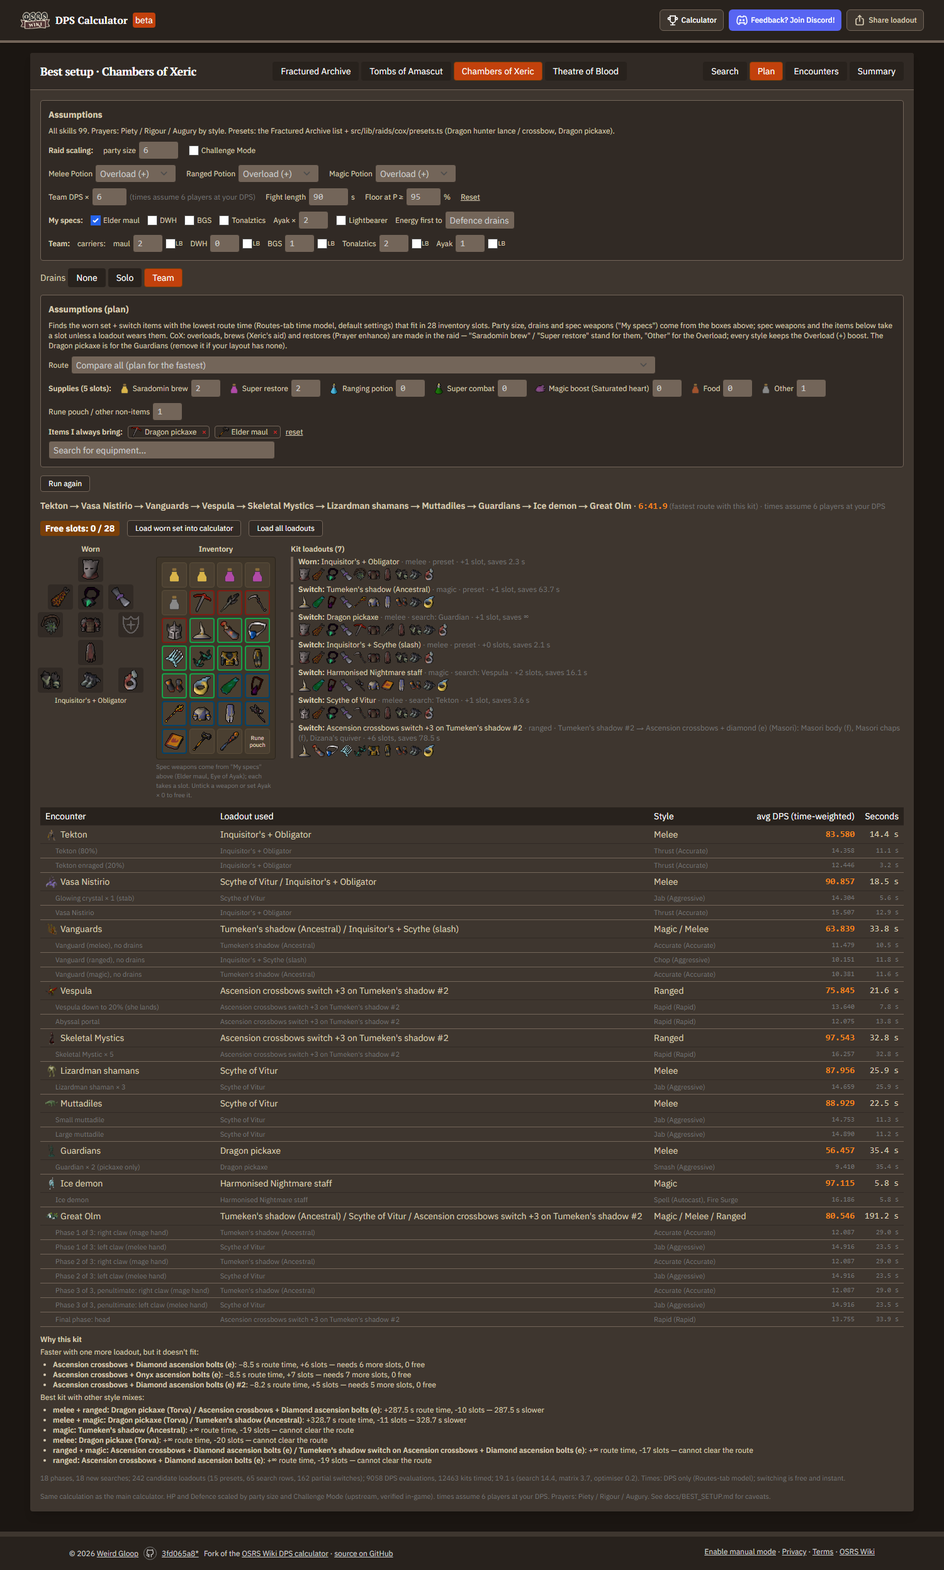
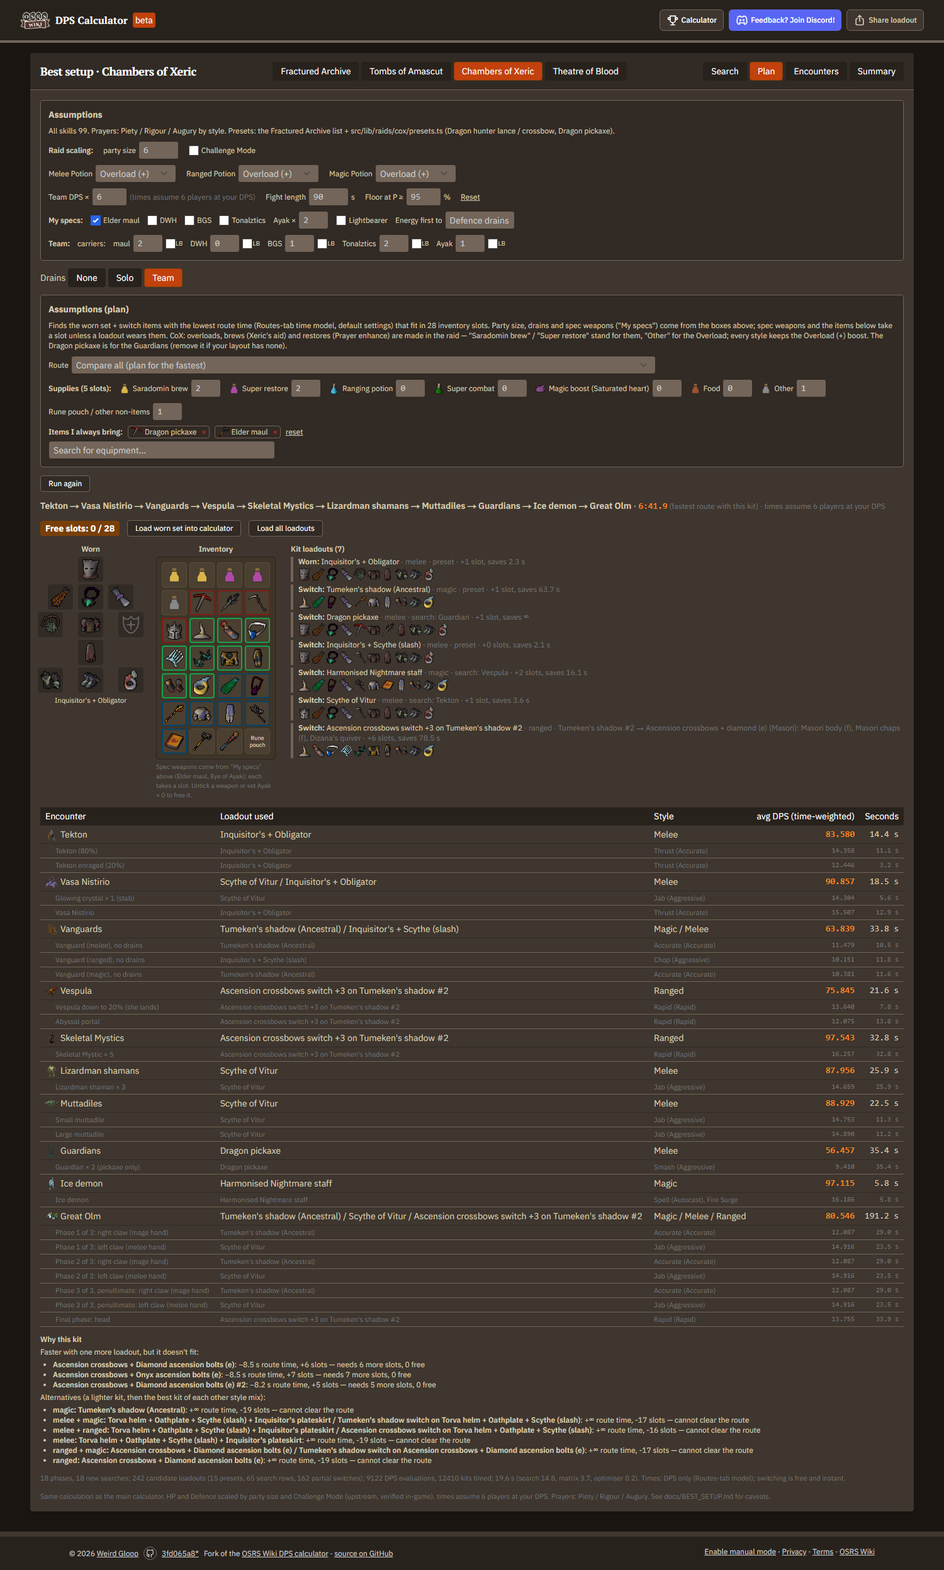
phase 21 fixes: review follow-ups
- plan prune only drops (min time within 28 slots); the same-style cheaper swaps become a "Lighter kit" alternative (-N slots for +X.X s)
- prune skipped for an infinite-time kit; raid-weapon switch label mentions ammo / shield
- verifyPhase20: 17 ToB targets in Normal mode; verifyPhase21: ToB 7:32.2 at 28/28 + lighter kit
- docs: BEST_SETUP effect table, UNVERIFIED D13 / G12

Changed region(s): [[0.0613, 0.8957, 0.7973, 0.9266]]

diff --git a/src/lib/fracturedArchive/planner.ts b/src/lib/fracturedArchive/planner.ts
@@ -410,9 +410,11 @@ export interface KitProblem {
   raidSupplied?: number[];
   /** Phase 21: skip the dedupe rule (the optimiser's prune step); default false. */
   noPrune?: boolean;
+  /** Phase 21 (`lightenKit`): prune this kit with drops and same-group swaps instead of optimising. */
+  lighten?: number[];
   /**
-   * Phase 21: style group (any label) per candidate; the dedupe rule may swap a kit loadout for a cheaper candidate of
-   * the same group. Undefined = drops only.
+   * Phase 21: style group (any label) per candidate, for the "lighter kit" swaps (`lightenKit`): a kit loadout may be
+   * swapped for a cheaper candidate of the same group. Not used by `optimiseKit` (its prune step only drops).
    */
   groups?: string[];
   shouldCancel?: () => boolean;
@@ -487,12 +489,13 @@ export const optimiseKit = (p: KitProblem): KitOptimum => {
     members, time: timeOf(members), used: usedOf(members), seed,
   });
 
-  // the dedupe rule (SWITCH_MIN_*): repeatedly apply the move that breaks it the most, until none does —
-  // drop a loadout that saves less than switchSavingRequired(its slots), or swap one for a cheaper candidate of the same
-  // style (`groups`) when the slots it frees bought less than SWITCH_MIN_SECONDS_PER_SLOT each
+  // the dedupe rule (SWITCH_MIN_*): repeatedly apply the move that breaks it the most, until none does — drop a loadout
+  // that saves less than switchSavingRequired(its slots); with `swaps` (lightenKit only) also swap one for a cheaper
+  // candidate of the same style (`groups`) when the slots it frees bought less than SWITCH_MIN_SECONDS_PER_SLOT each.
+  // A kit that can't clear the route (∞) is left alone.
   const loss = (from: KitSolution, to: KitSolution) => (to.time === from.time ? 0 : to.time - from.time);
-  const prune = (start: KitSolution): KitSolution => {
-    if (p.noPrune) return start;
+  const prune = (start: KitSolution, swaps = false): KitSolution => {
+    if (p.noPrune || !Number.isFinite(start.time)) return start;
     let cur = start;
     for (let iter = 0; iter < 50 && cur.members.length > 0; iter++) {
       let move: { s: KitSolution, margin: number } | null = null;
@@ -502,7 +505,7 @@ export const optimiseKit = (p: KitProblem): KitOptimum => {
           const margin = loss(cur, s) - switchSavingRequired(cur.used - s.used);
           if (margin < -EPS && (!move || margin < move.margin)) move = { s, margin };
         }
-        if (p.groups) {
+        if (swaps && p.groups) {
           for (let c = 0; c < n; c++) {
             if (p.groups[c] !== p.groups[cur.members[i]] || cur.members.includes(c) || (p.allowed && !p.allowed[c])) continue;
             const m = cur.members.map((x, j) => (j === i ? c : x));
@@ -574,6 +577,12 @@ export const optimiseKit = (p: KitProblem): KitOptimum => {
     return cur;
   };
 
+  if (p.lighten) {
+    const start = solution(p.lighten, p.lighten[0] ?? 0);
+    const light = prune(start, true);
+    return { best: light, finals: [light], kitsEvaluated };
+  }
+
   const finals: KitSolution[] = [];
   let best: KitSolution | null = null;
   p.seeds.forEach((seed, i) => {
@@ -589,6 +598,13 @@ export const optimiseKit = (p: KitProblem): KitOptimum => {
   if (!best) throw new Error('Planner: no seeds');
   return { best, finals, kitsEvaluated };
 };
+
+/**
+ * Phase 21: the "lighter kit" of a kit: the dedupe rule plus swaps of a loadout for a cheaper same-group candidate
+ * whenever the slots it frees bought < SWITCH_MIN_SECONDS_PER_SLOT each. Slower (or equal) and lighter; the planner
+ * offers it as an alternative, not as the plan (the plan minimises time within the slots).
+ */
+export const lightenKit = (p: KitProblem, members: number[]): KitSolution => optimiseKit({ ...p, lighten: members, seeds: members }).best;
 
 // --- the real planner ----------------------------------------------------------------------------------------------
 
@@ -1095,13 +1111,16 @@ export const plan = (inputs: PlanInputs, tuning: PlanTuning = {}, hooks: PlanHoo
         const A = candidates[a];
         if (A.group === B.group || bases.includes(a) || !dps[a].some((d) => d > 0)) continue;
         const v0 = partialSwitchVariants(A.equipment, B.equipment, () => 0)[0];
+        // the variant also takes the partner's ammo / shield (or drops the shield for a two-hander): say so
+        let extras = B.equipment.ammo ? ' + ammo' : '';
+        if ((v0.equipment.shield?.id ?? -1) !== (A.equipment.shield?.id ?? -1)) extras += v0.equipment.shield ? ' + shield' : ', shield removed';
         pending.push({
           label: `${B.equipment.weapon?.name ?? B.label} switch on ${A.label}`,
           kind: 'partial',
           group: B.group,
           equipment: v0.equipment,
           options: B.options,
-          source: `${A.label} → ${B.label}, weapon only (raid item: 0 slots)`,
+          source: `${A.label} → ${B.label}, weapon${extras} (the raid item: 0 slots)`,
           base: A.label,
           partner: B.label,
           pieces: [],
@@ -1188,7 +1207,6 @@ export const plan = (inputs: PlanInputs, tuning: PlanTuning = {}, hooks: PlanHoo
       seeds: seeds.length ? seeds : [0],
       raidSupplied,
       noPrune: tuning.noPrune,
-      groups: candidates.map((c) => c.group),
       shouldCancel: hooks.shouldCancel,
       onProgress: (done, n) => progress({
         stage: 'optimise', done, total: n, label: 'kits',
@@ -1311,7 +1329,7 @@ export const plan = (inputs: PlanInputs, tuning: PlanTuning = {}, hooks: PlanHoo
       const mixSeeds = seeds.filter((i) => allowed[i]).slice(0, 5);
       if (!mixSeeds.length) continue;
       let s = optimiseKit({
-        items, carried, fixedSlots, totalSlots: total, time: routeTime, seeds: mixSeeds, allowed, raidSupplied, noPrune: tuning.noPrune, groups: candidates.map((c) => c.group), shouldCancel: hooks.shouldCancel,
+        items, carried, fixedSlots, totalSlots: total, time: routeTime, seeds: mixSeeds, allowed, raidSupplied, noPrune: tuning.noPrune, shouldCancel: hooks.shouldCancel,
       }).best;
       for (const g of mix) {
         if (s.members.some((i) => candidates[i].group === g)) continue;
@@ -1352,6 +1370,26 @@ export const plan = (inputs: PlanInputs, tuning: PlanTuning = {}, hooks: PlanHoo
     throw e;
   }
   alternatives.sort((a, b) => (b.deltaSeconds - a.deltaSeconds) || a.label.localeCompare(b.label));
+  // phase 21: the lighter kit (same-style cheaper swaps where the slots bought < 1 s each), listed first when it frees slots
+  try {
+    const light = lightenKit({
+      items, carried, fixedSlots, totalSlots: total, time: routeTime, seeds: members, raidSupplied, groups: candidates.map((c) => c.group), shouldCancel: hooks.shouldCancel,
+    }, members);
+    const freed = chosen.used - light.used;
+    if (freed >= 1 && Number.isFinite(light.time)) {
+      const slower = light.time === T ? 0 : light.time - T;
+      alternatives.unshift({
+        label: `Lighter kit: ${light.members.map((i) => candidates[i].label).join(' / ')}`,
+        kind: 'alternative',
+        deltaSeconds: T - light.time,
+        deltaSlots: -freed,
+        reason: `−${freed} slot${freed === 1 ? '' : 's'} for +${slower.toFixed(1)} s (each freed slot cost < ${SWITCH_MIN_SECONDS_PER_SLOT} s)`,
+      });
+    }
+  } catch (e) {
+    if (e instanceof PlanCancelled) return emptyResult(searchRows);
+    throw e;
+  }
 
   const tEnd = Date.now();
   return {

diff --git a/src/tests/lib/raids/Phase21.test.ts b/src/tests/lib/raids/Phase21.test.ts
@@ -7,6 +7,7 @@ import {
   INVENTORY_SLOTS,
   inventoryGrid,
   kitSlotUsage,
+  lightenKit,
   optimiseKit,
   plan,
   PlanItem,
@@ -172,19 +173,32 @@ describe('dedupe rule (SWITCH_MIN_SAVING_SECONDS / SWITCH_MIN_SECONDS_PER_SLOT)'
     expect([...run(2.5)].sort()).toEqual([0, 1]);
   });
 
-  test('a costly variant is swapped for a cheaper one of the same style when its extra slots buy < 1 s each', () => {
-    // D: +2 slots, saves 2.5 s; E (same style, 0 slots: item 5 is carried) saves 2.0 s → D's 2 slots buy 0.5 s
+  test('the plan keeps the faster costly variant; the lighter kit swaps it for the cheaper one (2 slots bought 0.5 s)', () => {
+    // D: +2 slots, saves 2.5 s; E (same style, 0 slots: item 5 is carried) saves 2.0 s
     const its = [[1, 2, 3], [1, 7, 8], [1, 2, 5]];
     const t = (m: number[]) => (m.includes(0) ? 100 : Infinity) - Math.max(m.includes(1) ? 2.5 : 0, m.includes(2) ? 2.0 : 0);
-    const r = optimiseKit({
+    const prob = {
       items: its, carried: [5], fixedSlots: 10, totalSlots: INVENTORY_SLOTS, time: t, seeds: [0], groups: ['melee', 'magic', 'magic'],
+    };
+    const r = optimiseKit(prob);
+    expect([...r.best.members].sort()).toEqual([0, 1]); // minimum time; groups are ignored by the optimiser
+    expect(r.best.time).toBeCloseTo(97.5, 9);
+    const light = lightenKit(prob, r.best.members);
+    expect([...light.members].sort()).toEqual([0, 2]);
+    expect(light.time).toBeCloseTo(98, 9);
+    expect(r.best.used - light.used).toBe(2);
+  });
+
+  test('a kit that cannot clear the route (∞) is not pruned', () => {
+    const its = [[1, 2, 3], [4, 5, 6], [7, 8, 9]];
+    const t = () => Infinity;
+    const r = optimiseKit({
+      items: its, carried: [], fixedSlots: 10, totalSlots: INVENTORY_SLOTS, time: t, seeds: [0],
     });
-    expect([...r.best.members].sort()).toEqual([0, 2]);
-    // without groups only drops are tried: D stays (2.5 s ≥ 2 slots × 1 s)
-    const drops = optimiseKit({
-      items: its, carried: [5], fixedSlots: 10, totalSlots: INVENTORY_SLOTS, time: t, seeds: [0],
-    });
-    expect([...drops.best.members].sort()).toEqual([0, 1]);
+    expect(r.best.members).toEqual([0]); // nothing helps, nothing added
+    expect(lightenKit({
+      items: its, carried: [], fixedSlots: 10, totalSlots: INVENTORY_SLOTS, time: t, seeds: [0],
+    }, [0, 1, 2])).toMatchObject({ members: [0, 1, 2] });
   });
 });
 
@@ -244,8 +258,8 @@ describe('ToB: Dawnbringer spec count follows the team-DPS multiplier', () => {
   });
 });
 
-describe('ToB plan (reduced pool): a Dawnbringer loadout at 0 extra slots', () => {
-  test('the kit carries a Dawnbringer loadout that adds no slot; the grid has no Dawnbringer cell', () => {
+describe('ToB plan (reduced pool): a Dawnbringer loadout, the staff at 0 slots', () => {
+  test('the kit carries a Dawnbringer loadout; the grid has no Dawnbringer cell', () => {
     const raid = THEATRE_OF_BLOOD_RAID;
     const res = plan({
       basePlayer: generateEmptyPlayer(),
@@ -268,7 +282,8 @@ describe('ToB plan (reduced pool): a Dawnbringer loadout at 0 extra slots', () =
     const dawn = planItemByName('Dawnbringer').id;
     const i = res.kit.findIndex((c) => c.equipment.weapon?.id === dawn);
     expect(i).toBeGreaterThan(0);
-    expect(res.kitMarginal[i].slots).toBe(0);
+    // the Dawnbringer itself is free: whatever the loadout adds is its other pieces (at most one here)
+    expect(res.kitMarginal[i].slots).toBeLessThanOrEqual(1);
     expect(res.kitMarginal[i].seconds).toBeGreaterThanOrEqual(SWITCH_MIN_SAVING_SECONDS);
     expect(res.inventory.some((c) => c.item?.id === dawn)).toBe(false);
     expect(res.inventory.filter((c) => c.kind !== 'free').length).toBe(res.slots!.used);

diff --git a/src/app/components/bestSetup/PlanView.tsx b/src/app/components/bestSetup/PlanView.tsx
@@ -571,7 +571,7 @@ const PlanView: React.FC<{ assumptions: BestSetupAssumptions, drain: DrainStateI
             ) : <div>No other candidate loadout would make the route faster.</div>}
             {result.alternatives.length > 0 && (
               <>
-                <div>Best kit with other style mixes:</div>
+                <div>Alternatives (a lighter kit, then the best kit of each other style mix):</div>
                 <RejectionList rows={result.alternatives} testId="plan-alternatives" />
               </>
             )}

diff --git a/docs/UNVERIFIED.md b/docs/UNVERIFIED.md
@@ -90,7 +90,7 @@ applies to every figure.
 | D10 | Plan tab: switching | Switching between kit loadouts is free and instant (no lost ticks, no inventory clicks), as in the Routes tab; the plan only limits *what fits* in 28 slots | Kits with many switch items look better than they play | Count ticks lost per switch in a real run |
 | D11 | Plan tab: slots and potions | Every item is one slot (no stacking besides what the item data implies); supplies are slot counts entered by the user and never drunk down; a style whose potion has 0 slots is evaluated without its boost (the drain model keeps the potions); Solo drains in the optimiser are planned with each encounter's undrained time with the best single loadout, and the top 5 kits are re-timed exactly (the earlier fixed-90 s approximation is resolved); a two-handed / one-handed + shield change needs the free slot the largest swap requires (counted as "swap space"); spec weapons from "My specs" and the pinned items are always carried | Free-slot count off by a slot or two | — (model choice; check against the in-game inventory) |
 | D12 | Plan tab: candidates | Only the per-phase search results (3 weapons × 2 loadouts per style per phase), the presets, and partial switches between the best 2 loadouts per style are considered (phase 21: + single-piece swaps within a base's weapon, + a raid weapon such as the Dawnbringer on every full candidate) (caps in `PLAN_DEFAULTS`, docs/BEST_SETUP.md *Plan tab*). Greedy + local search, not exhaustive | A kit outside the pool (e.g. a weapon only the 4th-best on every phase) is never found | Raise the caps in `PLAN_DEFAULTS` and compare |
-| D13 | Plan tab: dedupe rule (phase 21) | A kit loadout must save ≥ max(1 s, 1 s per extra slot) of route time (`SWITCH_MIN_SAVING_SECONDS`, `SWITCH_MIN_SECONDS_PER_SLOT`), else it's dropped or swapped for a cheaper same-style candidate; freed slots stay free. 1 s per slot is a judgment call (a slot ≈ a brew; switching ticks aren't modelled) | Kits a few seconds slower (ToB 1.9 s for 3 free slots) or one switch richer | Compare a real run with and without the switch; change the constants in planner.ts |
+| D13 | Plan tab: dedupe rule (phase 21) | A kit loadout must save ≥ max(1 s, 1 s per extra slot) of route time (`SWITCH_MIN_SAVING_SECONDS`, `SWITCH_MIN_SECONDS_PER_SLOT`), else it's dropped (skipped when the kit can't clear the route). The plan never swaps a loadout for a cheaper one; that "lighter kit" is offered as an alternative ("−N slots for +X.X s"; ToB −3 slots for +1.9 s). 1 s per slot is a judgment call (a slot ≈ a brew; switching ticks aren't modelled) | A switch more or less in the kit; ToA drops a 0.2 s / 1-slot set | Compare a real run with and without the switch; change the constants in planner.ts |
 | D14 | Plan tab: per-raid defaults (phase 21) | Pinned items and supplies per raid from the Strategies example inventories (docs/BEST_SETUP.md *Per-raid defaults*): ToA 6 restore + 2 salts, Lightbearer + Zaryte crossbow; CoX 2 / 2 / 1 Overload, Dragon pickaxe + Elder maul; ToB 4 / 3 / 1 / 1 / 1, Elder maul. In CoX / ToA the brew / restore counts stand for the raid's own potions | Free slots ± a few; a different kit when slots are tight | — (edit the inputs to your own inventory) |
 
 ## (E) Tombs of Amascut (phase 18, Encounters tab / planner)
@@ -133,7 +133,7 @@ Stats, hp scaling, Verzik P1's cap and the Sotetseg / Verzik floors are upstream
 |---|---|---|---|---|
 | G1 | Verzik P1 cap model | Upstream's `linearMinTransformer`: damage = min(hit, a uniform roll 0..10 melee / 0..3 otherwise). The wiki / Mod Ash only say "capping damage ... at 10 / 3". With a plain min(hit, cap) the Scythe would deal ~2.4× more and beat the Dawnbringer's autos; under upstream's model the Dawnbringer is the best single loadout on P1 | P1 time and the P1 Search ranking | Hit splats on the shield: are 10s (melee) common or uniform-ish? |
 | G2 | One Dawnbringer | Its holder uses the kit's best on P1, the other (team − 1) the best without it (phase "Shield (Dawnbringer with a teammate)"); specs: 2 per player × 112.5 average, each one 4-tick attack of one player's time. Phase 21: "players" = the team-DPS multiplier (as in every other phase's time), not the party size, so specs = 2 × N and their time = specs × 2.4 s ÷ N (default N = party size: unchanged) | P1 time ± a few s | — (model choice) |
-| G12 | Dawnbringer in the Plan (phase 21) | A raid item: 0 inventory slots, usable on any loadout (`planDefaults.raidSupplied`). In-game it is picked up at Verzik and takes a slot while not wielded (your weapon takes one while it is), but by then supplies are mostly used | Plan's free-slot count at Verzik off by one | — (model choice) |
+| G12 | Dawnbringer in the Plan (phase 21) | A raid item: 0 inventory slots, usable on any loadout (`planDefaults.raidSupplied`). In-game it is picked up at Verzik and takes a slot while not wielded (your weapon takes one while it is), but by then supplies are mostly used. The kit's Dawnbringer loadout assumes **you** hold the staff (the time model's one holder); if a teammate holds it, its saving (~1.9 s in the default ToB plan) overstates your gain — harmless, the staff costs 0 slots | Plan's free-slot count at Verzik off by one; P1 saving overstated if you don't hold it | — (model choice) |
 | G3 | Bloat downs | Damage only while down; drains only for the first 18 s down ("roughly 18 seconds"; the stomp restores Defence); walking time, halved damage while walking and later BGS run-bys not counted | Bloat time off by the walks (DPS time only) and by any re-drains | Time a down; read Bloat's Defence after a run-by and after the stomp |
 | G4 | Vasilias rotation | Equal time in each form (it changes every 10 ticks to a form "it is not currently using", random); wrong-style hits = can't hit (their reflect / heal isn't modelled); waves not counted | Nylocas time for kits weak in one style | Time each form over a few kills |
 | G5 | Maiden / Xarpus / Verzik heals | 0 by default (settings): leaked Matomenos, blood spawns, exhumeds, Athanatos, P2.5 blood spells, enrage tornadoes. Hard Mode Verzik's 30% heal is always added | Absolute times too low when heals happen | Time a few kills |

diff --git a/docs/BEST_SETUP.md b/docs/BEST_SETUP.md
@@ -300,10 +300,12 @@ of the **same weapon** (e.g. "Torva helm + Oathplate + Scythe (slash) + Salve am
 Salve (ei) + Scythe (slash)"). Without them the only way to get the Salve at Bloat was a whole second Scythe set.
 
 **Dedupe rule** (`SWITCH_MIN_SAVING_SECONDS` = 1, `SWITCH_MIN_SECONDS_PER_SLOT` = 1 in planner.ts; the optimiser's
-prune step after every greedy + local search, matrix times): a kit loadout stays only if removing it costs ≥ max(1 s,
-1 s × the slots it frees); and a loadout is swapped for a cheaper one of the same style when the slots it frees bought
-< 1 s each. So a switch that costs 0 extra slots and saves < 1 s (a near-duplicate) is dropped, and each extra slot
-must buy ≥ 1 s. Slots freed this way stay free (shown in the badge). Switching takes ticks in-game but is free in the
+prune step after every greedy + local search, matrix times; skipped for a kit that can't clear the route): a kit
+loadout stays only if removing it costs ≥ max(1 s, 1 s × the slots it frees). So a switch that costs 0 extra slots and
+saves < 1 s (a near-duplicate) is dropped, and each extra slot must buy ≥ 1 s. The plan only drops; it never trades
+time for slots by swapping a loadout. Review fix: the **lighter kit** — the plan with every loadout swapped for a cheaper
+one of the same style whenever the slots it frees bought < 1 s each (`lightenKit`) — is listed first under
+"Alternatives" as "Lighter kit: … −N slots for +X.X s" when it frees at least one slot. Switching takes ticks in-game but is free in the
 model, so differences under a second are noise. The kit table shows each loadout's "+N slots, saves X s" (vs the kit
 without it). The "why" list marks additions that fit but miss the rule.
 
@@ -314,12 +316,11 @@ without it). The "why" list marks additions that fit but miss the rule.
 | FA | 23:18.8 — Ascension crossbows partial over Inquisitor's + Obligator, Inquisitor's + Obligator | 23:18.8 | **23:18.8, unchanged** (both loadouts are needed; 17.4 s in the browser) |
 | ToA | 14:20.0 — Keris partisan of breaching (Torva) worn; Shadow, fang, Scythe, Obligator; 1 free | 14:20.0 — same kit incl. Torva + Obligator (saves 0.2 s for +1 slot); 3 free | **14:20.2** — Torva + Obligator dropped; Keris worn, Shadow, fang, Torva + Scythe; **4 free** (19.3 s) |
 | CoX | 6:59.9 (8 "Other" slots) | 6:41.9 | **6:41.9, same kit** — Inquisitor's + Obligator worn; Shadow, Dragon pickaxe, Inquisitor's + Scythe (0 slots, 2.1 s), Harmonised Nightmare staff, Scythe (Tekton; +1 slot, 3.6 s), Ascension crossbows partial; 0 free (every switch ≥ 1 s per slot; 20.6 s) |
-| ToB | 7:35.5 — Torva + Scythe worn; Torva helm + Oathplate + Scythe, two Scythe search sets, Eye of Ayak, Ascension crossbows partial | 7:32.0 (before the piece swaps) — Torva + Scythe worn; Oathplate + Scythe (+2 slots, 6.0 s), Torva + Salve (ei) + Scythe (+1, 3.8 s), Dawnbringer + 5 Ancestral pieces (+0), Eye of Ayak, Ascension crossbows partial; 0 free | **7:34.1** — worn Torva helm + Oathplate + Scythe; **Dawnbringer (Ancestral) at +0 slots** (its Ancestral pieces are the Shadow's), Tumeken's shadow, Oathplate + Salve amulet(ei) swap, Ascension crossbows partial (+ Masori body); **3 free** (18.2 s) |
+| ToB | 7:35.5 — Torva + Scythe worn; Torva helm + Oathplate + Scythe, two Scythe search sets, Eye of Ayak, Ascension crossbows partial | 7:32.0 (before the piece swaps) — Torva + Scythe worn; Oathplate + Scythe (+2 slots, 6.0 s), Torva + Salve (ei) + Scythe (+1, 3.8 s), Dawnbringer + 5 Ancestral pieces (+0), Eye of Ayak, Ascension crossbows partial; 0 free | **7:32.2, 28/28** — worn Torva helm + Oathplate + Scythe; switches Dawnbringer search set (+1 slot: the staff itself is free), Tumeken's shadow, Oathplate + Salve amulet(ei) swap, Ascension crossbows partial (18.2 s). **Alternative "Lighter kit"**: Dawnbringer (Ancestral) at +0 slots (its Ancestral pieces are the Shadow's) and a smaller Ascension crossbows partial — −3 slots for +1.9 s (7:34.1, 3 free) |
 
 The three ToB Scythe sets each saved ≥ 1 s per slot, so the rule alone didn't drop them; once the single-piece swap
-"Oathplate + Salve (ei)" exists the optimiser keeps one Scythe set + the Salve (7:32.2, 0 free, with drops only), and
-the rule's cheaper-variant swaps (Dawnbringer search set +1 slot → Dawnbringer (Ancestral) +0; a smaller Ascension
-crossbows partial) give up 1.9 s for 3 free slots (< 1 s per slot).
+"Oathplate + Salve (ei)" exists the optimiser keeps one Scythe set + the Salve (7:32.2, 28/28). ToA's 14:20.2 is the
+drop rule (Torva + Obligator: 0.2 s for its slot).
 
 ## Routes tab (phase 16: raid time model)
 

diff --git a/PROGRESS.md b/PROGRESS.md
@@ -3,6 +3,21 @@
 Newest entry first. One entry per phase (or per notable fix). Keep entries short: what was done, how it was
 verified, what's unverified / left for later.
 
+## Phase 21 fixes — review follow-ups (2026-10-23)
+
+- The plan no longer swaps a loadout for a cheaper one (it raised ToB 7:32.2 → 7:34.1 to free 3 unused slots):
+  `optimiseKit`'s prune step only drops (≥ max(1 s, 1 s per slot)); new `lightenKit` runs the swaps once on the chosen kit
+  and, when it frees ≥ 1 slot, the plan lists it first under Alternatives as "Lighter kit: … −N slots for +X.X s".
+- Prune is skipped for a kit whose time is ∞ (no cutting to one loadout); the raid-weapon switch label says when the
+  variant also takes ammo / a shield or drops the shield.
+- `verifyPhase20.mjs`: 17 ToB targets in Normal mode (20 in Hard Mode); `verifyPhase21.mjs`: ToB 7:32.2 at 28/28 + the
+  lighter-kit alternative.
+- Docs: BEST_SETUP effect table (ToB 7:32.2, 28/28; lighter kit −3 slots for +1.9 s), UNVERIFIED D13, G12 (you hold the
+  staff; a teammate holding it makes the saving an overstatement).
+- Tests: Phase21.test.ts 23 (lighter-kit swap, ∞ guard; Dawnbringer loadout check relaxed to the staff being free).
+  `yarn test` 1194 pass / 4 skipped; lint, tsc clean; verifyPhase17–21 all OK.
+- Totals (Team, defaults): FA 23:18.8, ToA 14:20.2, CoX 6:41.9, ToB 7:32.2.
+
 ## Phase 21 — Planner for ToA / CoX / ToB: per-raid defaults, raid items, dedupe (2026-10-23)
 
 - **Per-raid Plan defaults** (new `src/lib/raids/planDefaults.ts`, `RaidBase.planDefaults`; `DEFAULT_PINNED_NAMES` /
